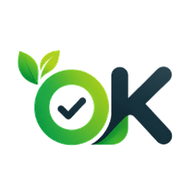
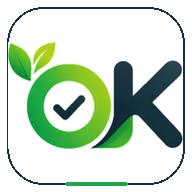
App-Incrementale

diff --git a/public/app.html b/public/app.html
@@ -3,60 +3,148 @@
 <head>
   <meta charset="UTF-8">
   <meta name="viewport" content="width=device-width,initial-scale=1,viewport-fit=cover">
-  <meta name="theme-color" content="#f1f5f9">
+  <meta name="theme-color" content="#ffffff">
   <meta name="apple-mobile-web-app-capable" content="yes">
   <meta name="apple-mobile-web-app-status-bar-style" content="default">
   <meta name="apple-mobile-web-app-title" content="OffertaLogica">
-  <title>OffertaLogica App</title>
+  <title>OffertaLogica</title>
   <link rel="manifest" href="/manifest.webmanifest">
   <link rel="icon" href="/assets/logo-offertalogica-icon.png">
-  <link rel="apple-touch-icon" href="/assets/app-icon-192.png">
+  <link rel="apple-touch-icon" sizes="180x180" href="/assets/app-icon-180.png">
   <style>
-    :root{--bg:#f1f5f9;--card:#fff;--text:#0f172a;--muted:#64748b;--green:#16a34a;--green-dark:#048a3d;--border:#dbe3ed;--shadow:0 12px 32px rgba(15,23,42,.08)}
-    *{box-sizing:border-box}html{background:var(--bg)}body{margin:0;background:var(--bg);color:var(--text);font-family:ui-rounded,"SF Pro Rounded","Aptos","Inter",-apple-system,BlinkMacSystemFont,"Segoe UI",sans-serif;min-height:100dvh}
-    button,a{font:inherit}.app{max-width:520px;margin:auto;min-height:100dvh;padding:env(safe-area-inset-top) 16px calc(92px + env(safe-area-inset-bottom))}
-    .topbar{height:76px;display:flex;align-items:center;justify-content:space-between}.brand{display:flex;align-items:center}.brand img{width:190px;max-width:58vw;height:auto;display:block}.icon-btn{width:44px;height:44px;border:1px solid var(--border);border-radius:14px;background:#fff;display:grid;place-items:center;color:var(--text);box-shadow:0 5px 14px rgba(15,23,42,.05)}
-    .hero{position:relative;overflow:hidden;border-radius:24px;padding:24px 20px;background:linear-gradient(135deg,var(--green-dark),var(--green) 55%,#7ed321);color:#fff;box-shadow:0 18px 40px rgba(22,163,74,.24)}.hero:after{content:"";position:absolute;width:190px;height:190px;border-radius:50%;right:-75px;bottom:-100px;background:rgba(255,255,255,.12)}
-    .hero small{display:block;font-weight:800;opacity:.92}.hero h1{font-size:34px;line-height:1.05;margin:8px 0 8px;letter-spacing:-.04em}.hero p{margin:0 0 18px;font-size:15px;max-width:330px}.primary{display:flex;align-items:center;justify-content:center;width:100%;min-height:52px;border:0;border-radius:14px;background:#fff;color:#0f5132;font-weight:900;text-decoration:none;box-shadow:0 8px 20px rgba(0,0,0,.12)}
-    .section-title{font-size:18px;margin:24px 2px 12px}.actions{display:grid;grid-template-columns:1fr 1fr;gap:12px}.action{min-height:145px;padding:18px 14px;border:1px solid var(--border);border-radius:20px;background:#fff;text-decoration:none;color:var(--text);box-shadow:var(--shadow)}.action-icon{width:48px;height:48px;border-radius:15px;display:grid;place-items:center;background:#ecfdf3;color:var(--green);font-size:24px;margin-bottom:15px}.action strong{display:block;font-size:16px;margin-bottom:4px}.action span{display:block;color:var(--muted);font-size:13px;line-height:1.35}
-    .status{margin-top:12px;padding:18px;border:1px solid var(--border);border-radius:20px;background:#fff;box-shadow:var(--shadow)}.status-head{display:flex;align-items:center;justify-content:space-between;gap:12px}.badge{padding:6px 9px;border-radius:99px;background:#dcfce7;color:#166534;font-size:11px;font-weight:900}.status h3{margin:12px 0 4px;font-size:17px}.status p{margin:0;color:var(--muted);font-size:13px}.status-link{display:flex;justify-content:space-between;align-items:center;margin-top:14px;padding-top:14px;border-top:1px solid #e8edf3;color:var(--green-dark);font-weight:900;text-decoration:none}
-    .install{display:none;margin:14px 0 0;width:100%;min-height:48px;border:1px solid #86efac;border-radius:14px;background:#f0fdf4;color:#166534;font-weight:900}.install.show{display:block}
-    .nav{position:fixed;z-index:20;left:50%;bottom:0;transform:translateX(-50%);width:min(520px,100%);padding:9px 12px calc(9px + env(safe-area-inset-bottom));display:grid;grid-template-columns:repeat(4,1fr);background:rgba(255,255,255,.96);border-top:1px solid var(--border);backdrop-filter:blur(16px)}.nav a{display:grid;place-items:center;gap:2px;text-decoration:none;color:#64748b;font-size:11px;font-weight:800}.nav a.active{color:var(--green)}.nav b{font-size:20px;line-height:1}
-    @media(min-width:700px){body{padding:24px}.app{min-height:calc(100dvh - 48px);border-radius:30px;background:#f8fafc;box-shadow:0 25px 80px rgba(15,23,42,.15)}.nav{bottom:24px;border:1px solid var(--border);border-radius:0 0 30px 30px}}
+    :root{
+      --bg:#f5f7fa;--surface:#fff;--text:#123044;--muted:#5d7280;
+      --green:#19a94b;--green-dark:#068d3e;--lime:#86d51f;
+      --navy:#123044;--border:#dce5ea;--soft:#eef8f1;
+      --shadow:0 12px 32px rgba(18,48,68,.08);--radius:22px;
+    }
+    *{box-sizing:border-box}
+    html{background:var(--bg);-webkit-text-size-adjust:100%}
+    body{margin:0;min-height:100dvh;background:var(--bg);color:var(--text);font-family:-apple-system,BlinkMacSystemFont,"Segoe UI",Inter,Arial,sans-serif;-webkit-font-smoothing:antialiased}
+    a,button{font:inherit;-webkit-tap-highlight-color:transparent}
+    button{color:inherit}
+    .app{width:min(100%,520px);min-height:100dvh;margin:auto;padding:env(safe-area-inset-top) 16px calc(92px + env(safe-area-inset-bottom))}
+    .topbar{height:72px;display:flex;align-items:center;justify-content:space-between}
+    .brand{display:flex;align-items:center;text-decoration:none}
+    .brand img{display:block;width:184px;max-width:58vw;height:auto}
+    .icon-button{width:44px;height:44px;border:1px solid var(--border);border-radius:15px;background:var(--surface);display:grid;place-items:center;box-shadow:0 5px 16px rgba(18,48,68,.06)}
+    .icon{width:23px;height:23px;stroke:currentColor;stroke-width:1.9;fill:none;stroke-linecap:round;stroke-linejoin:round}
+    .hero{position:relative;isolation:isolate;overflow:hidden;padding:25px 21px 21px;border-radius:26px;background:linear-gradient(135deg,#078d3f 0%,#19a94b 58%,#78cc20 100%);color:#fff;box-shadow:0 18px 38px rgba(25,169,75,.22)}
+    .hero:before,.hero:after{content:"";position:absolute;z-index:-1;border-radius:999px;background:rgba(255,255,255,.10)}
+    .hero:before{width:210px;height:210px;right:-92px;top:-116px}
+    .hero:after{width:145px;height:145px;left:-80px;bottom:-105px}
+    .eyebrow{display:flex;align-items:center;gap:7px;font-size:13px;font-weight:800;letter-spacing:.01em;opacity:.96}
+    .eyebrow-dot{width:8px;height:8px;border-radius:50%;background:#d9ff9a;box-shadow:0 0 0 5px rgba(217,255,154,.14)}
+    .hero h1{max-width:390px;margin:12px 0 9px;font-size:clamp(31px,9vw,40px);line-height:1.02;letter-spacing:-.045em}
+    .hero p{max-width:370px;margin:0 0 20px;font-size:15px;line-height:1.45;color:rgba(255,255,255,.92)}
+    .primary{min-height:54px;width:100%;border:0;border-radius:16px;background:#fff;color:var(--navy);display:flex;align-items:center;justify-content:center;gap:9px;text-decoration:none;font-weight:900;box-shadow:0 8px 22px rgba(0,0,0,.13);transition:transform .16s ease,box-shadow .16s ease}
+    .primary:active{transform:scale(.985);box-shadow:0 5px 14px rgba(0,0,0,.11)}
+    .install{display:none;width:100%;min-height:48px;margin:13px 0 0;border:1px solid #93dbab;border-radius:15px;background:#f0fbf3;color:#087c39;font-weight:850}.install.show{display:block}
+    .section-heading{display:flex;justify-content:space-between;align-items:end;margin:24px 2px 12px}
+    .section-heading h2{margin:0;font-size:19px;letter-spacing:-.02em}.section-heading span{font-size:12px;color:var(--muted)}
+    .quick-grid{display:grid;grid-template-columns:1fr 1fr;gap:12px}
+    .quick-card{position:relative;min-height:154px;padding:17px 15px;border:1px solid var(--border);border-radius:var(--radius);background:var(--surface);color:var(--text);text-decoration:none;box-shadow:var(--shadow);transition:transform .16s ease,border-color .16s ease}
+    .quick-card:active{transform:scale(.985);border-color:#b7d9c1}
+    .quick-icon{width:49px;height:49px;margin-bottom:17px;border-radius:16px;background:var(--soft);color:var(--green-dark);display:grid;place-items:center}
+    .quick-card strong{display:block;margin-bottom:5px;font-size:16px;letter-spacing:-.015em}.quick-card small{display:block;color:var(--muted);font-size:13px;line-height:1.38}
+    .wide-card{margin-top:12px;padding:18px;border:1px solid var(--border);border-radius:var(--radius);background:var(--surface);box-shadow:var(--shadow)}
+    .wide-head{display:flex;align-items:center;justify-content:space-between;gap:12px}.wide-head strong{font-size:16px}
+    .badge{padding:6px 9px;border-radius:99px;background:#e9f9ee;color:#087c39;font-size:11px;font-weight:900}
+    .wide-card h3{margin:13px 0 5px;font-size:20px;letter-spacing:-.025em}.wide-card p{margin:0;color:var(--muted);font-size:13px;line-height:1.45}
+    .wide-link{display:flex;align-items:center;justify-content:space-between;margin-top:16px;padding-top:15px;border-top:1px solid #e7edf0;color:var(--green-dark);font-weight:900;text-decoration:none}
+    .nav{position:fixed;z-index:30;left:50%;bottom:0;transform:translateX(-50%);width:min(520px,100%);display:grid;grid-template-columns:repeat(4,1fr);padding:8px 8px calc(8px + env(safe-area-inset-bottom));border-top:1px solid var(--border);background:rgba(255,255,255,.94);backdrop-filter:blur(18px);-webkit-backdrop-filter:blur(18px)}
+    .nav a{min-height:54px;display:flex;flex-direction:column;align-items:center;justify-content:center;gap:3px;color:#607482;text-decoration:none;font-size:10px;font-weight:800;border-radius:14px}.nav a.active{color:var(--green-dark);background:#eff9f2}.nav .icon{width:22px;height:22px}
+    .splash{position:fixed;z-index:100;inset:0;display:grid;place-items:center;padding:24px;background:#fff;transition:opacity .28s ease,visibility .28s ease}
+    .splash.hidden{opacity:0;visibility:hidden;pointer-events:none}.splash-inner{text-align:center}.splash img{display:block;width:min(250px,68vw);height:auto;margin:auto;animation:logo-in .55s cubic-bezier(.2,.8,.2,1) both}.splash p{margin:16px 0 0;color:var(--muted);font-size:13px;font-weight:700;letter-spacing:.015em}
+    .update{position:fixed;z-index:60;left:50%;bottom:calc(82px + env(safe-area-inset-bottom));transform:translate(-50%,18px);width:min(calc(100% - 32px),488px);padding:12px 13px;border-radius:16px;background:var(--navy);color:#fff;display:flex;align-items:center;justify-content:space-between;gap:12px;box-shadow:0 18px 40px rgba(18,48,68,.25);opacity:0;visibility:hidden;transition:.2s ease}.update.show{opacity:1;visibility:visible;transform:translate(-50%,0)}.update span{font-size:13px;font-weight:750}.update button{border:0;border-radius:11px;background:#fff;color:var(--navy);padding:8px 10px;font-size:12px;font-weight:900}
+    @keyframes logo-in{from{opacity:0;transform:scale(.88)}to{opacity:1;transform:scale(1)}}
+    @media(min-width:700px){body{padding:24px}.app{min-height:calc(100dvh - 48px);border-radius:30px;background:#f8fafb;box-shadow:0 25px 80px rgba(18,48,68,.15)}.nav{bottom:24px;border:1px solid var(--border);border-radius:0 0 30px 30px}}
+    @media(prefers-reduced-motion:reduce){*,*:before,*:after{animation-duration:.01ms!important;transition-duration:.01ms!important;scroll-behavior:auto!important}}
   </style>
 </head>
 <body>
+  <div id="splash" class="splash" aria-hidden="true"><div class="splash-inner"><img src="/assets/logo-offertalogica-header.png" alt=""><p>Confronta · Scegli · Risparmia</p></div></div>
+
   <main class="app">
-    <header class="topbar"><a class="brand" href="/app.html" aria-label="OffertaLogica"><img src="/assets/logo-offertalogica-header.png" alt="OffertaLogica"></a><button class="icon-btn" aria-label="Notifiche">♧</button></header>
+    <header class="topbar">
+      <a class="brand" href="/app.html" aria-label="OffertaLogica"><img src="/assets/logo-offertalogica-header.png" alt="OffertaLogica"></a>
+      <a class="icon-button" href="/come-funziona.html" aria-label="Aiuto">
+        <svg class="icon" viewBox="0 0 24 24" aria-hidden="true"><circle cx="12" cy="12" r="9"/><path d="M9.8 9a2.35 2.35 0 1 1 3.6 2c-.9.6-1.4 1.05-1.4 2.2"/><path d="M12 17h.01"/></svg>
+      </a>
+    </header>
+
     <section class="hero">
-      <small>Il controllo delle tue bollette</small>
-      <h1>Scopri quanto puoi risparmiare.</h1>
-      <p>Carica una bolletta oppure confronta subito le offerte aggiornate di OffertaLogica.</p>
-      <a class="primary" href="/#main-content">CONFRONTA LE OFFERTE</a>
+      <div class="eyebrow"><span class="eyebrow-dot"></span><span>Offerte luce e gas aggiornate</span></div>
+      <h1>Quanto puoi risparmiare oggi?</h1>
+      <p>Confronta le offerte disponibili oppure carica una bolletta per un risultato basato sui tuoi consumi.</p>
+      <a class="primary" href="/?entry=app#main-content">
+        <span>SCOPRI IL RISPARMIO</span>
+        <svg class="icon" viewBox="0 0 24 24" aria-hidden="true"><path d="M5 12h14"/><path d="m14 7 5 5-5 5"/></svg>
+      </a>
     </section>
-    <button id="installApp" class="install">Installa OffertaLogica sul telefono</button>
-    <h2 class="section-title">Cosa vuoi fare?</h2>
-    <section class="actions">
-      <a class="action" href="/#pdf-upload-panel"><div class="action-icon">▧</div><strong>Carica bolletta</strong><span>La lettura IA inserisce i dati nel confronto.</span></a>
-      <a class="action" href="/?entry=app#main-content"><div class="action-icon">⌕</div><strong>Nuovo confronto</strong><span>Trova l'offerta più adatta ai tuoi consumi.</span></a>
+
+    <button id="installApp" class="install" type="button">Installa OffertaLogica sul telefono</button>
+
+    <div class="section-heading"><h2>Inizia da qui</h2><span>Due percorsi rapidi</span></div>
+    <section class="quick-grid" aria-label="Azioni principali">
+      <a class="quick-card" href="/#pdf-upload-panel">
+        <div class="quick-icon"><svg class="icon" viewBox="0 0 24 24" aria-hidden="true"><path d="M14 2H7a2 2 0 0 0-2 2v16a2 2 0 0 0 2 2h10a2 2 0 0 0 2-2V7z"/><path d="M14 2v5h5"/><path d="M9 13h6M9 17h6"/></svg></div>
+        <strong>Carica bolletta</strong><small>Analisi IA e compilazione automatica del confronto.</small>
+      </a>
+      <a class="quick-card" href="/?entry=app#main-content">
+        <div class="quick-icon"><svg class="icon" viewBox="0 0 24 24" aria-hidden="true"><circle cx="11" cy="11" r="7"/><path d="m20 20-4-4"/><path d="M11 8v6M8 11h6"/></svg></div>
+        <strong>Nuovo confronto</strong><small>Parti dai consumi oppure usa i valori medi.</small>
+      </a>
     </section>
-    <section class="status">
-      <div class="status-head"><strong>Offerte disponibili</strong><span class="badge">Aggiornate</span></div>
-      <h3>Luce, gas e dual</h3><p>Consulta le offerte del progetto reale, con gli stessi dati e lo stesso percorso di OffertaLogica.</p>
-      <a class="status-link" href="/offerte-luce-gas-aggiornate.html"><span>Apri le offerte</span><span>›</span></a>
+
+    <section class="wide-card">
+      <div class="wide-head"><strong>Offerte disponibili</strong><span class="badge">Aggiornate</span></div>
+      <h3>Luce, gas e dual</h3>
+      <p>Consulta il catalogo reale di OffertaLogica senza dati dimostrativi o risparmi inventati.</p>
+      <a class="wide-link" href="/offerte-luce-gas-aggiornate.html"><span>Vedi le offerte</span><svg class="icon" viewBox="0 0 24 24" aria-hidden="true"><path d="m9 18 6-6-6-6"/></svg></a>
     </section>
   </main>
+
   <nav class="nav" aria-label="Navigazione app">
-    <a class="active" href="/app.html"><b>⌂</b><span>Home</span></a>
-    <a href="/#pdf-upload-panel"><b>▧</b><span>Bolletta</span></a>
-    <a href="/?entry=app#main-content"><b>⌘</b><span>Confronta</span></a>
-    <a href="/come-funziona.html"><b>?</b><span>Aiuto</span></a>
+    <a class="active" href="/app.html" aria-current="page"><svg class="icon" viewBox="0 0 24 24" aria-hidden="true"><path d="m3 11 9-8 9 8"/><path d="M5 10v10h14V10"/><path d="M9 20v-6h6v6"/></svg><span>Home</span></a>
+    <a href="/#pdf-upload-panel"><svg class="icon" viewBox="0 0 24 24" aria-hidden="true"><path d="M14 2H7a2 2 0 0 0-2 2v16a2 2 0 0 0 2 2h10a2 2 0 0 0 2-2V7z"/><path d="M14 2v5h5"/><path d="M9 13h6M9 17h6"/></svg><span>Bolletta</span></a>
+    <a href="/?entry=app#main-content"><svg class="icon" viewBox="0 0 24 24" aria-hidden="true"><circle cx="11" cy="11" r="7"/><path d="m20 20-4-4"/></svg><span>Confronta</span></a>
+    <a href="/come-funziona.html"><svg class="icon" viewBox="0 0 24 24" aria-hidden="true"><circle cx="12" cy="12" r="9"/><path d="M9.8 9a2.35 2.35 0 1 1 3.6 2c-.9.6-1.4 1.05-1.4 2.2"/><path d="M12 17h.01"/></svg><span>Aiuto</span></a>
   </nav>
+
+  <div id="updateNotice" class="update" role="status" aria-live="polite"><span>È disponibile una nuova versione.</span><button id="applyUpdate" type="button">AGGIORNA</button></div>
+
   <script>
-    if ('serviceWorker' in navigator) addEventListener('load',()=>navigator.serviceWorker.register('/sw.js'));
-    let deferredPrompt; const install=document.getElementById('installApp');
-    addEventListener('beforeinstallprompt',e=>{e.preventDefault();deferredPrompt=e;install.classList.add('show')});
-    install.addEventListener('click',async()=>{if(!deferredPrompt)return;deferredPrompt.prompt();await deferredPrompt.userChoice;deferredPrompt=null;install.classList.remove('show')});
+    (()=>{
+      const splash=document.getElementById('splash');
+      const hideSplash=()=>splash.classList.add('hidden');
+      addEventListener('load',()=>setTimeout(hideSplash,650),{once:true});
+      setTimeout(hideSplash,1600);
+
+      let deferredPrompt;
+      const install=document.getElementById('installApp');
+      addEventListener('beforeinstallprompt',event=>{event.preventDefault();deferredPrompt=event;install.classList.add('show')});
+      install.addEventListener('click',async()=>{if(!deferredPrompt)return;deferredPrompt.prompt();await deferredPrompt.userChoice;deferredPrompt=null;install.classList.remove('show')});
+
+      if(!('serviceWorker' in navigator))return;
+      let refreshing=false;
+      const notice=document.getElementById('updateNotice');
+      const apply=document.getElementById('applyUpdate');
+      navigator.serviceWorker.addEventListener('controllerchange',()=>{if(refreshing)return;refreshing=true;location.reload()});
+      addEventListener('load',async()=>{
+        try{
+          const registration=await navigator.serviceWorker.register('/sw.js');
+          const showUpdate=worker=>{notice.classList.add('show');apply.onclick=()=>worker.postMessage({type:'SKIP_WAITING'})};
+          if(registration.waiting)showUpdate(registration.waiting);
+          registration.addEventListener('updatefound',()=>{
+            const worker=registration.installing;
+            if(!worker)return;
+            worker.addEventListener('statechange',()=>{if(worker.state==='installed'&&navigator.serviceWorker.controller)showUpdate(worker)});
+          });
+          registration.update();
+        }catch(error){console.warn('Service worker non disponibile',error)}
+      },{once:true});
+    })();
   </script>
 </body>
 </html>

diff --git a/public/sw.js b/public/sw.js
@@ -1,5 +1,58 @@
-const CACHE="offertalogica-app-v1";
-const CORE=["/app.html","/manifest.webmanifest","/assets/logo-offertalogica-header.png","/assets/logo-offertalogica-icon.png","/assets/app-icon-192.png","/assets/app-icon-512.png"];
-self.addEventListener("install",event=>event.waitUntil(caches.open(CACHE).then(cache=>cache.addAll(CORE)).then(()=>self.skipWaiting())));
-self.addEventListener("activate",event=>event.waitUntil(caches.keys().then(keys=>Promise.all(keys.filter(key=>key!==CACHE).map(key=>caches.delete(key)))).then(()=>self.clients.claim())));
-self.addEventListener("fetch",event=>{if(event.request.method!=="GET")return;event.respondWith(fetch(event.request).then(response=>{const copy=response.clone();caches.open(CACHE).then(cache=>cache.put(event.request,copy));return response}).catch(()=>caches.match(event.request).then(cached=>cached||caches.match("/app.html"))))});
+const CACHE = "offertalogica-app-v2";
+const APP_SHELL = [
+  "/app.html",
+  "/manifest.webmanifest",
+  "/assets/logo-offertalogica-header.png",
+  "/assets/logo-offertalogica-icon.png",
+  "/assets/app-icon-180.png",
+  "/assets/app-icon-192.png",
+  "/assets/app-icon-512.png"
+];
+
+self.addEventListener("install", event => {
+  event.waitUntil(caches.open(CACHE).then(cache => cache.addAll(APP_SHELL)));
+});
+
+self.addEventListener("activate", event => {
+  event.waitUntil(
+    caches.keys()
+      .then(keys => Promise.all(keys.filter(key => key !== CACHE).map(key => caches.delete(key))))
+      .then(() => self.clients.claim())
+  );
+});
+
+self.addEventListener("message", event => {
+  if (event.data?.type === "SKIP_WAITING") self.skipWaiting();
+});
+
+self.addEventListener("fetch", event => {
+  const request = event.request;
+  if (request.method !== "GET") return;
+
+  const url = new URL(request.url);
+  if (url.origin !== self.location.origin) return;
+
+  if (request.mode === "navigate") {
+    event.respondWith(
+      fetch(request)
+        .then(response => {
+          if (response.ok) caches.open(CACHE).then(cache => cache.put(request, response.clone()));
+          return response;
+        })
+        .catch(async () => (await caches.match(request)) || caches.match("/app.html"))
+    );
+    return;
+  }
+
+  if (["style", "script", "image", "font"].includes(request.destination)) {
+    event.respondWith(
+      caches.match(request).then(cached => {
+        const network = fetch(request).then(response => {
+          if (response.ok) caches.open(CACHE).then(cache => cache.put(request, response.clone()));
+          return response;
+        }).catch(() => cached);
+        return cached || network;
+      })
+    );
+  }
+});
